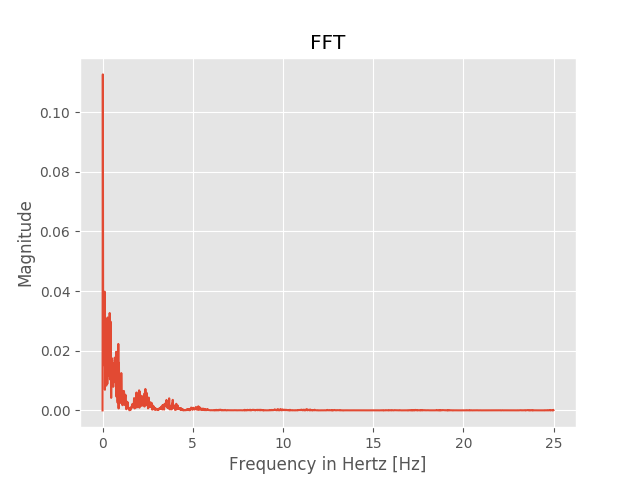
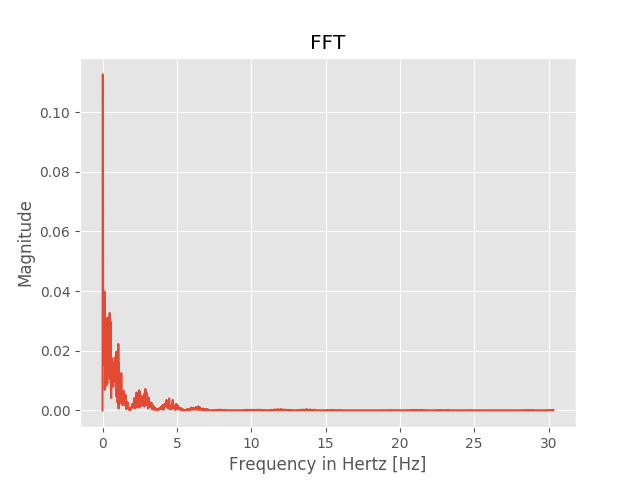
Fix the scale of x-axis to time

diff --git a/seismotracker.py b/seismotracker.py
@@ -25,7 +25,7 @@ br_max_freq = 0.66
 
 def plot(data, title, plot_save_path):
   N = len(data)
-  y = np.linspace(0, sampling_frequency, N)
+  y = np.linspace(0, N/sampling_frequency, N)
   plt.plot(y, data)
 
   plt.title(title)
@@ -44,7 +44,7 @@ def draw_plot(plot_save_path):
 def fft(data, f_low, f_high, plot_save_path):
   N = len(data)
   fft_data = sp.fftpack.fft(data)
-  f = np.linspace(0, sampling_frequency, N)
+  f = np.linspace(0, N/sampling_frequency, N)
   plt.plot(f[:N // 2], np.abs(fft_data)[:N // 2] * 1 / N)
   plt.xlabel('Frequency in Hertz [Hz]')
   plt.ylabel('Amplitude')
@@ -86,7 +86,7 @@ def normalize(data):
   return data
 
 def apply_pass_filter(unfiltered_data, btype, cutoff, plot_save_path):
-  t = np.linspace(0, sampling_frequency, len(unfiltered_data), endpoint=False)
+  t = np.linspace(0, len(unfiltered_data)/sampling_frequency, len(unfiltered_data), endpoint=False)
   filtered_data = np.full_like(unfiltered_data, 0)
   axes = {'x': 0, 'y': 1, 'z': 2}
 

diff --git a/bio_watch.py b/bio_watch.py
@@ -32,7 +32,7 @@ def apply_average_filter(data, window):
 
 def plot(data, title, plot_save_path):
   N = len(data)
-  y = np.linspace(0, sampling_frequency, N)
+  y = np.linspace(0, N/sampling_frequency, N)
   plt.plot(y, data)
 
   plt.title(title)
@@ -74,7 +74,7 @@ def fft(acc_data, f_low, f_high, plot_save_path):
   N = len(acc_data)
 
   fft_data = sp.fftpack.fft(acc_data)
-  f = np.linspace(0, sampling_frequency, N)
+  f = np.linspace(0, N/sampling_frequency, N)
 
   plt.plot(f[:N // 2], np.abs(fft_data)[:N // 2] * 1 / N)
   plt.xlabel('Frequency in Hertz [Hz]')

diff --git a/sleep_monitor.py b/sleep_monitor.py
@@ -43,7 +43,7 @@ def is_valid_segment(segment):
 def plot_ax(data, title, plot_save_path):
   x = np.array(data[:,0])
   N = len(x)
-  y = np.linspace(0, sampling_frequency, N)
+  y = np.linspace(0, N/sampling_frequency, N)
   plt.plot(y, x)
 
   plt.title(title)
@@ -146,7 +146,7 @@ def fft(data):
 
   data = sp.signal.detrend(data)
   fft_data = sp.fftpack.fft(data)
-  f = np.linspace(0, sampling_frequency, N)
+  f = np.linspace(0, N/sampling_frequency, N)
 
   max_amp = 0
   max_index = 0

diff --git a/smart_sensor.py b/smart_sensor.py
@@ -27,7 +27,7 @@ if __name__ == '__main__':
       print('\n%s:\n' % algo)
       hr, br = algo_fn(data.copy(), sampling_freq)
       rates.append([hr, br])
-    res = pd.DataFrame(rates, algorithms, measurements)
+    res = pd.DataFrame(rates, sorted(algorithms.keys()), measurements)
     results[dataset] = res
     print(res)
 
